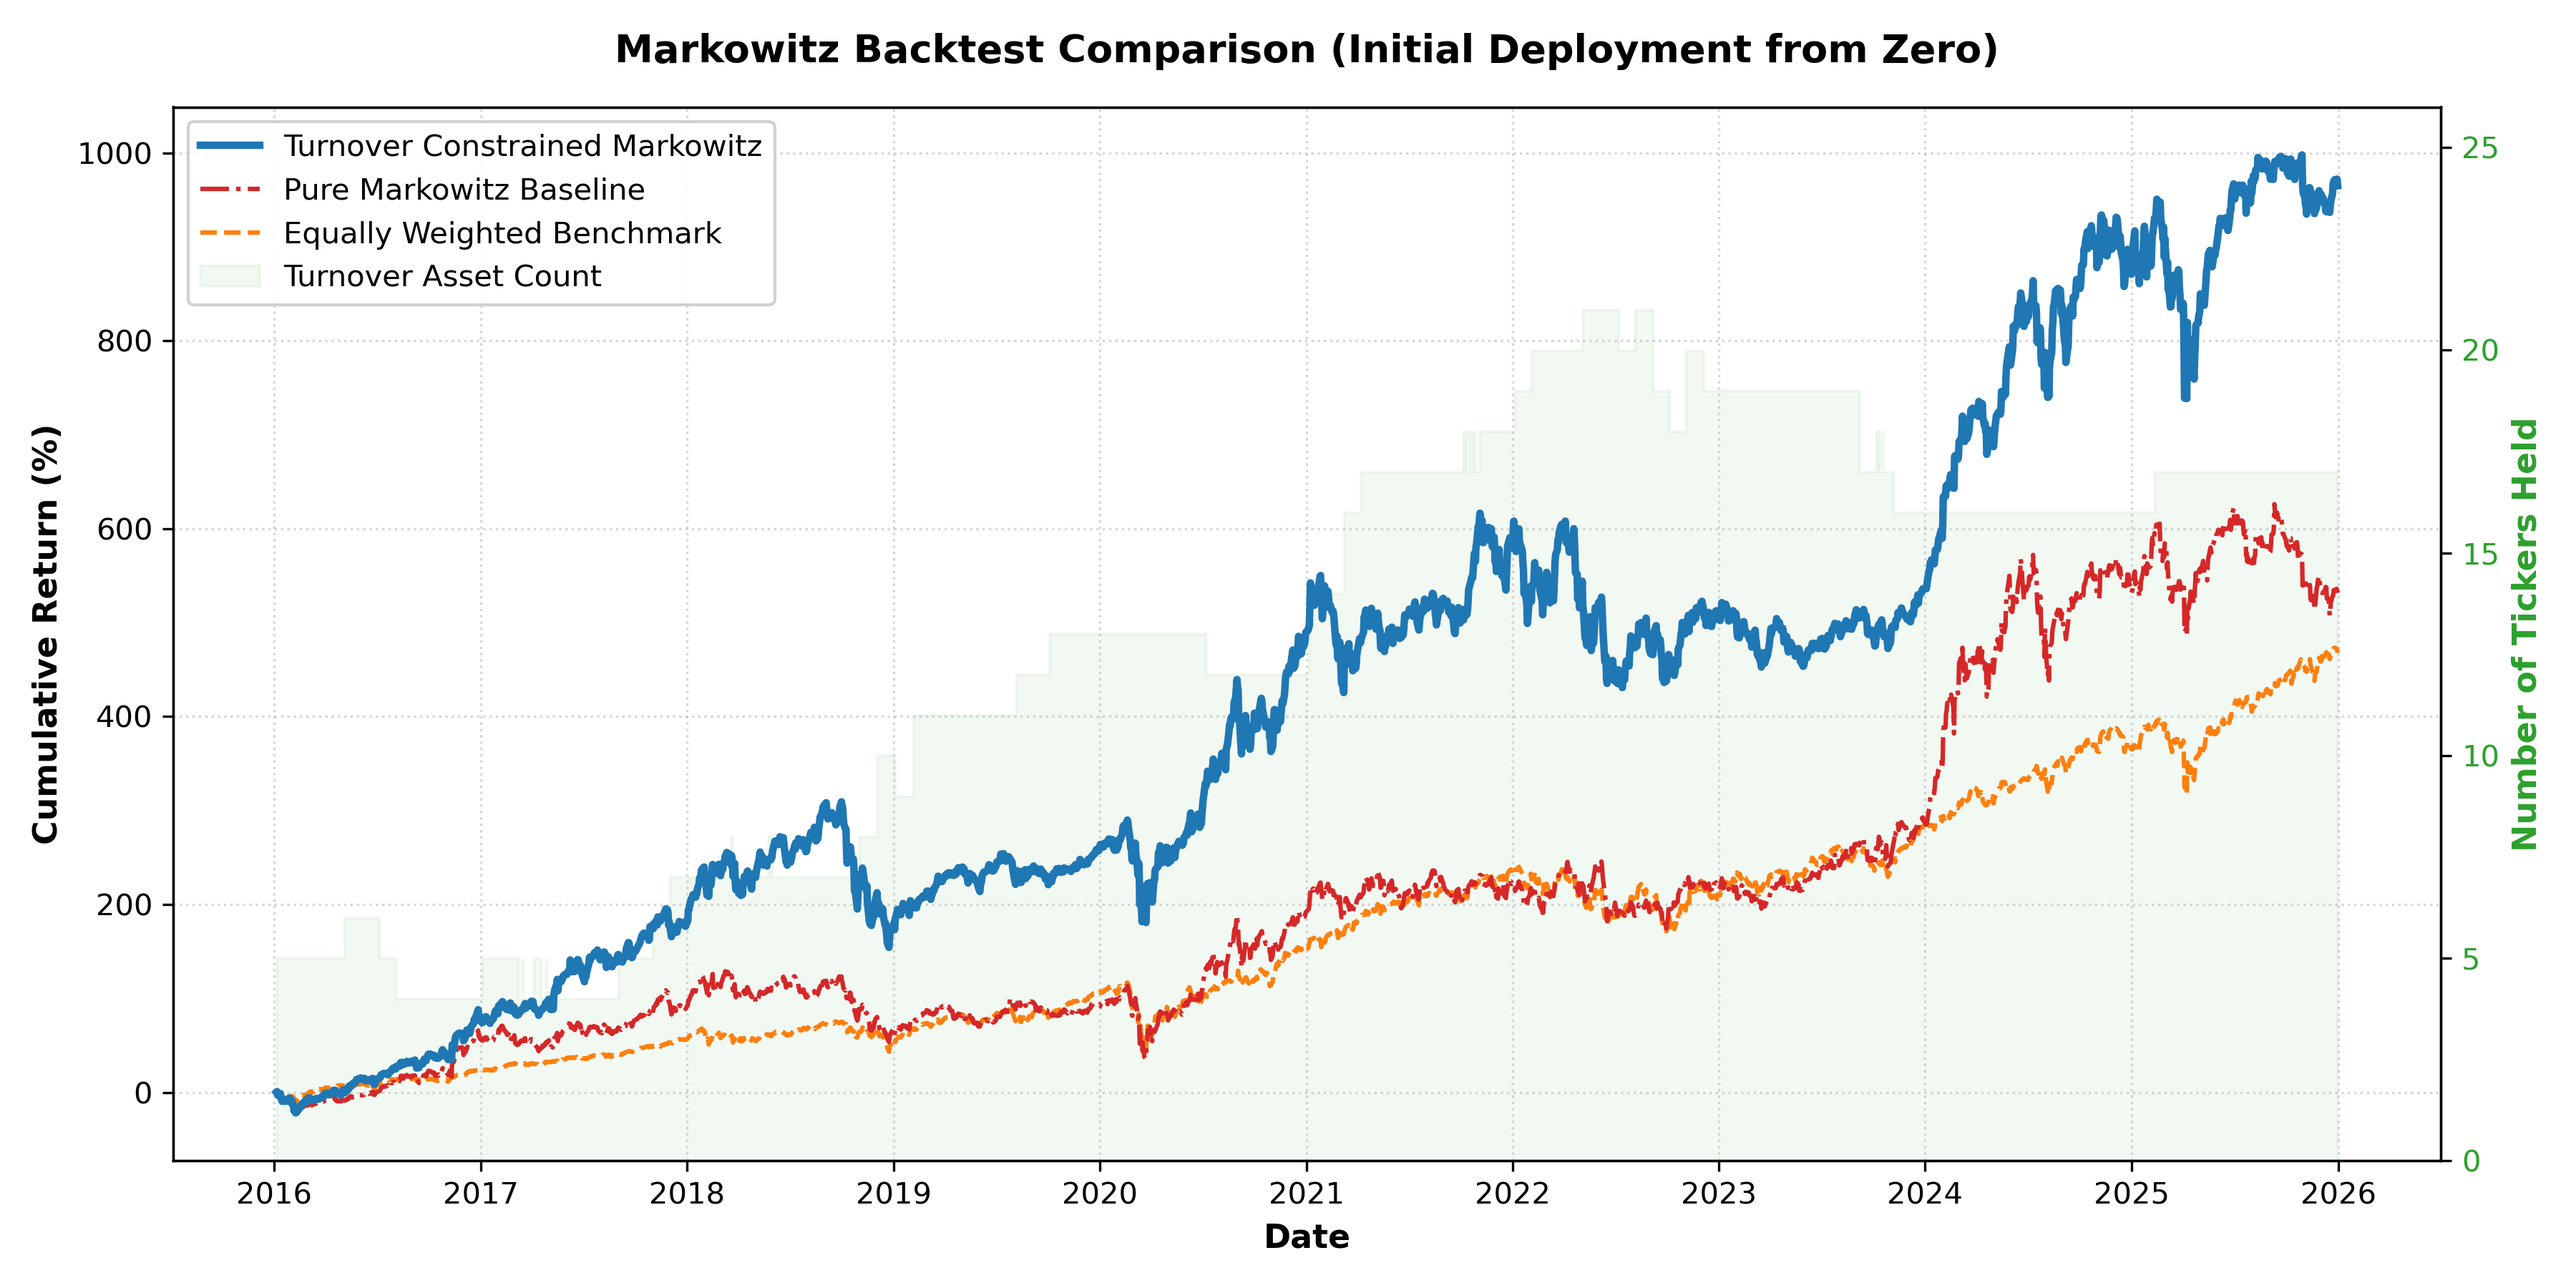
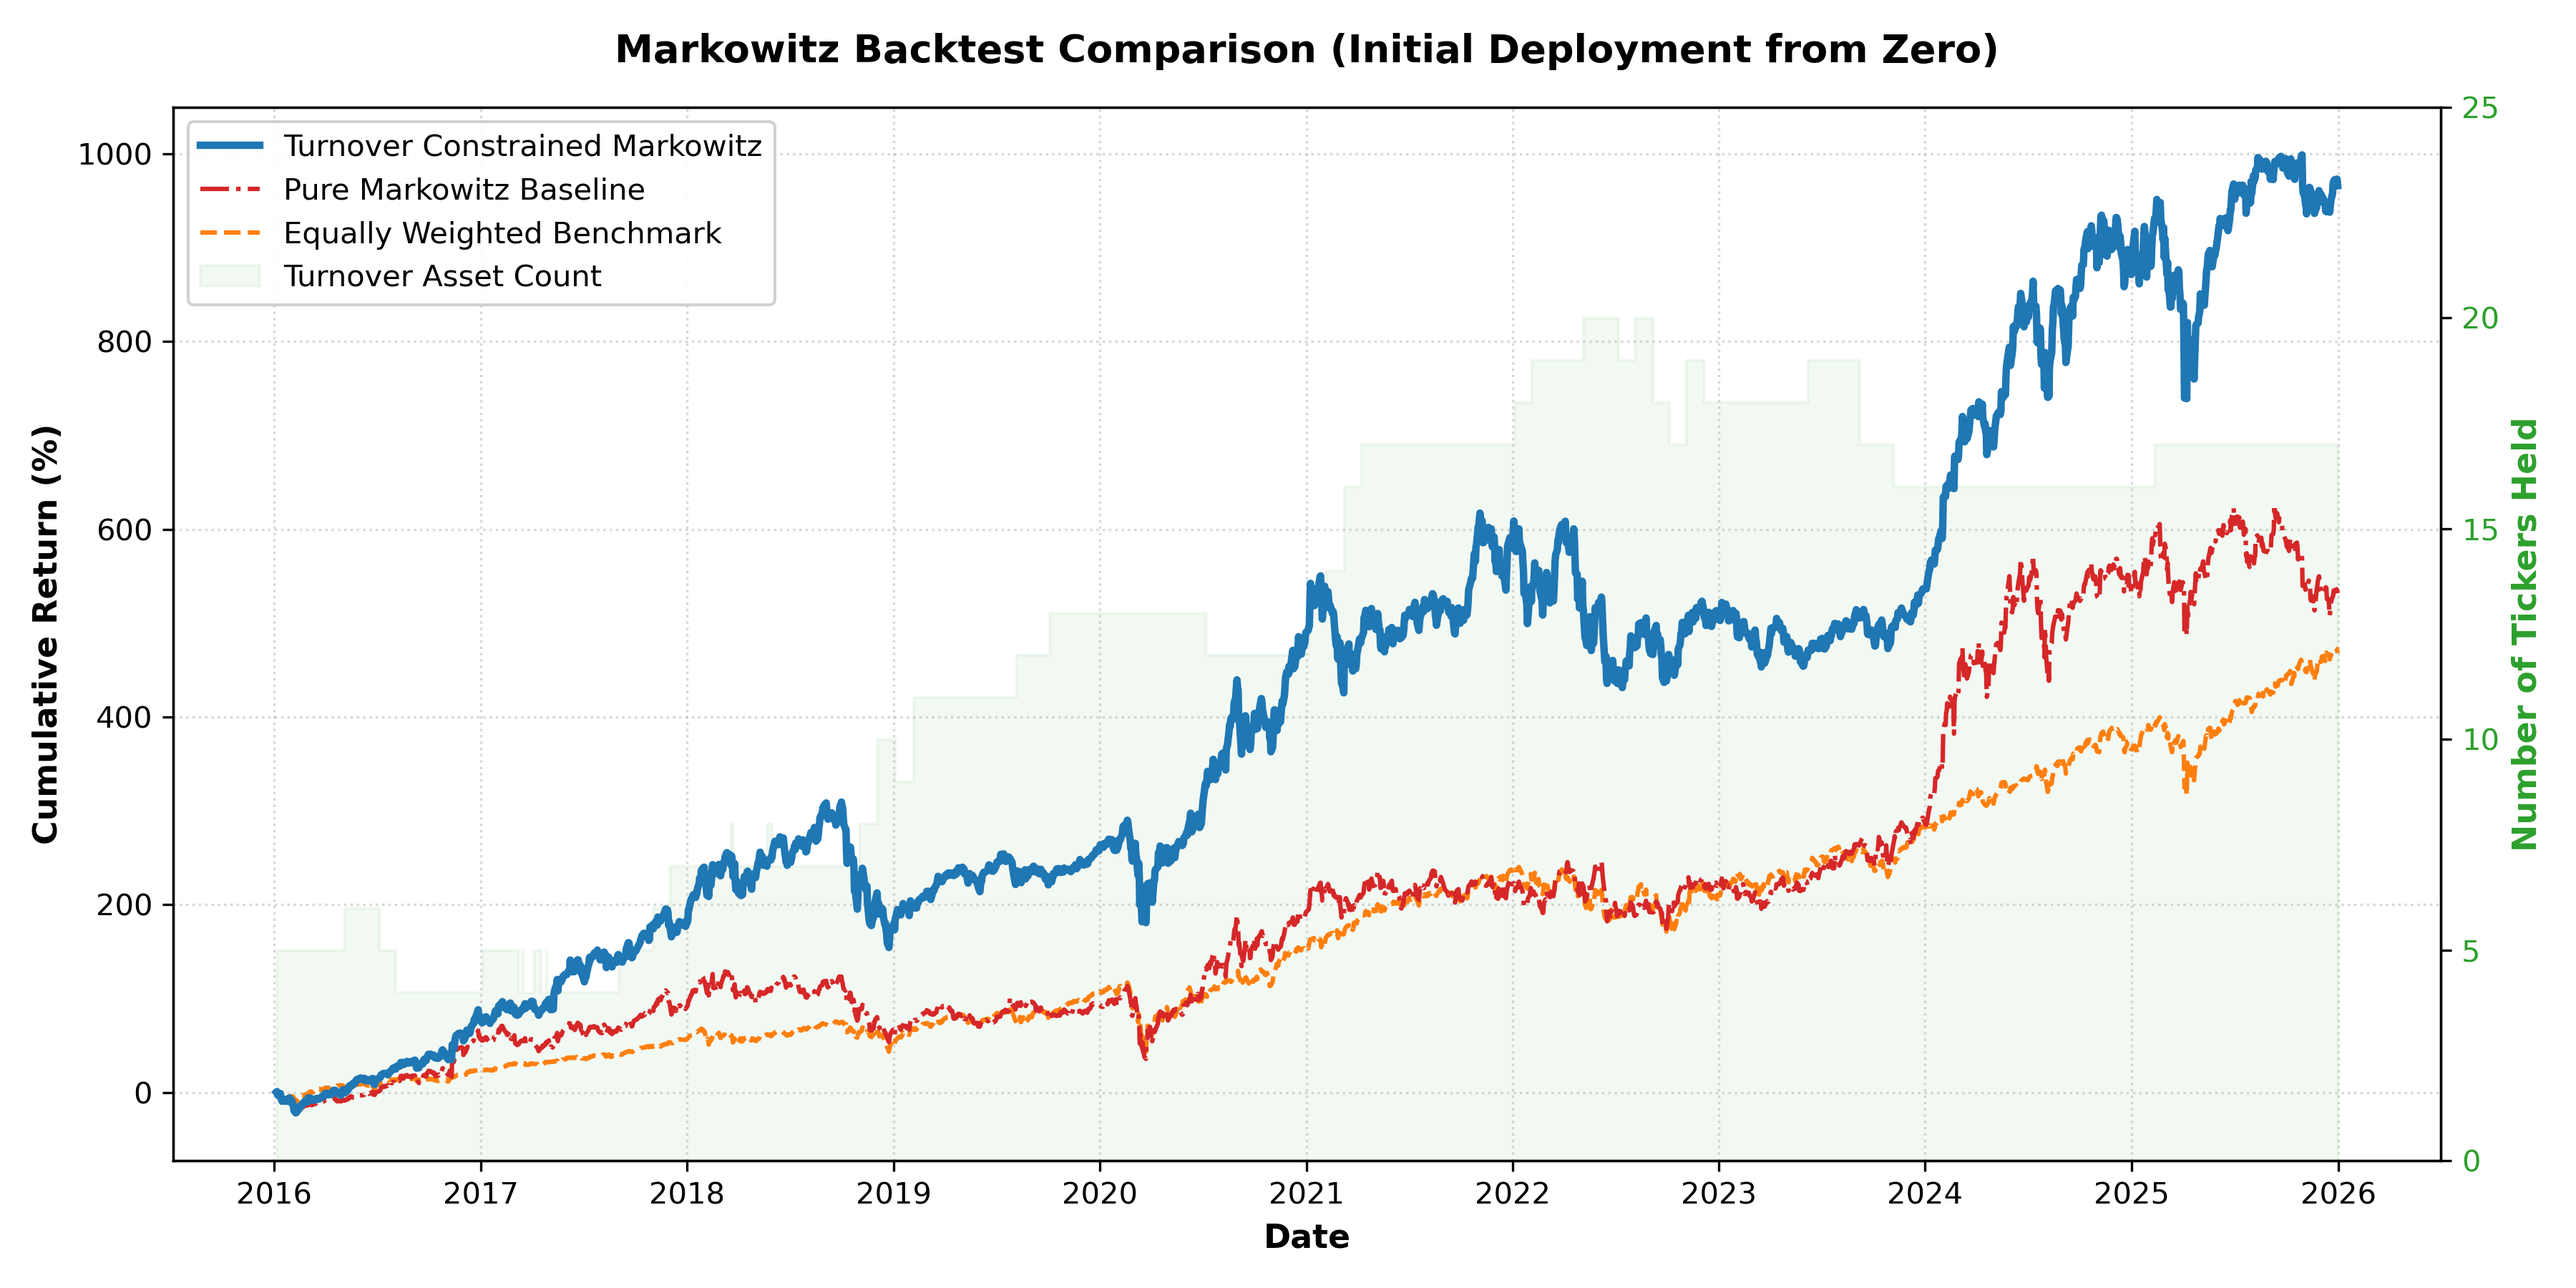
backtest again

diff --git a/backtest1.py b/backtest1.py
@@ -320,12 +320,12 @@ if __name__ == "__main__":
 
     # Visualization Generation Pipeline
     fig, ax1 = plt.subplots(figsize=(14, 7))
-    ax1.plot(res.index, (1 + res["Strategy_Robust"]).cumprod() - 1, label="Strategy 1: Robust Turnover Constrained", color="#1f77b4", linewidth=2.5)
-    ax1.plot(res.index, (1 + res["Strategy_Markowitz"]).cumprod() - 1, label="Strategy 2: True Classic Markowitz Baseline", color="#d62728", linestyle=":", linewidth=2.2)
-    ax1.plot(res.index, (1 + res["Strategy_EqualWeight"]).cumprod() - 1, label="Strategy 3: Equal-Weighted 1/N Portfolio", color="grey", linestyle="-.", alpha=0.7)
-    ax1.plot(res.index, (1 + res["Benchmark_SPY"]).cumprod() - 1, label="Strategy 4: S&P 500 Index Benchmark (SPY)", color="black", linestyle="--", linewidth=1.5)
+    ax1.plot(res.index, ((1 + res["Strategy_Robust"]).cumprod() - 1)*100, label="Strategy 1: Robust Turnover Constrained", color="#1f77b4", linewidth=2.5)
+    ax1.plot(res.index, ((1 + res["Strategy_Markowitz"]).cumprod() - 1)*100, label="Strategy 2: True Classic Markowitz Baseline", color="#d62728", linestyle=":", linewidth=2.2)
+    ax1.plot(res.index, ((1 + res["Strategy_EqualWeight"]).cumprod() - 1)*100, label="Strategy 3: Equal-Weighted 1/N Portfolio", color="grey", linestyle="-.", alpha=0.7)
+    ax1.plot(res.index, ((1 + res["Benchmark_SPY"]).cumprod() - 1)*100, label="Strategy 4: S&P 500 Index Benchmark (SPY)", color="black", linestyle="--", linewidth=1.5)
     
-    ax1.set_title(f"High-Dimensional Portfolio Optimization Timeline (100 ETFs Matrix | Lambda={CHOSEN_LAMBDA}, Tau={CHOSEN_TAU})", fontsize=12, fontweight="bold")
+    ax1.set_title(f"High-Dimensional Portfolio Optimization Timeline", fontsize=12, fontweight="bold")
     ax1.set_xlabel("Historical Timeline", fontsize=11, fontweight="bold")
     ax1.set_ylabel("Cumulative Growth Return (%)", fontsize=11, fontweight="bold")
     ax1.grid(True, linestyle=":", alpha=0.6)
